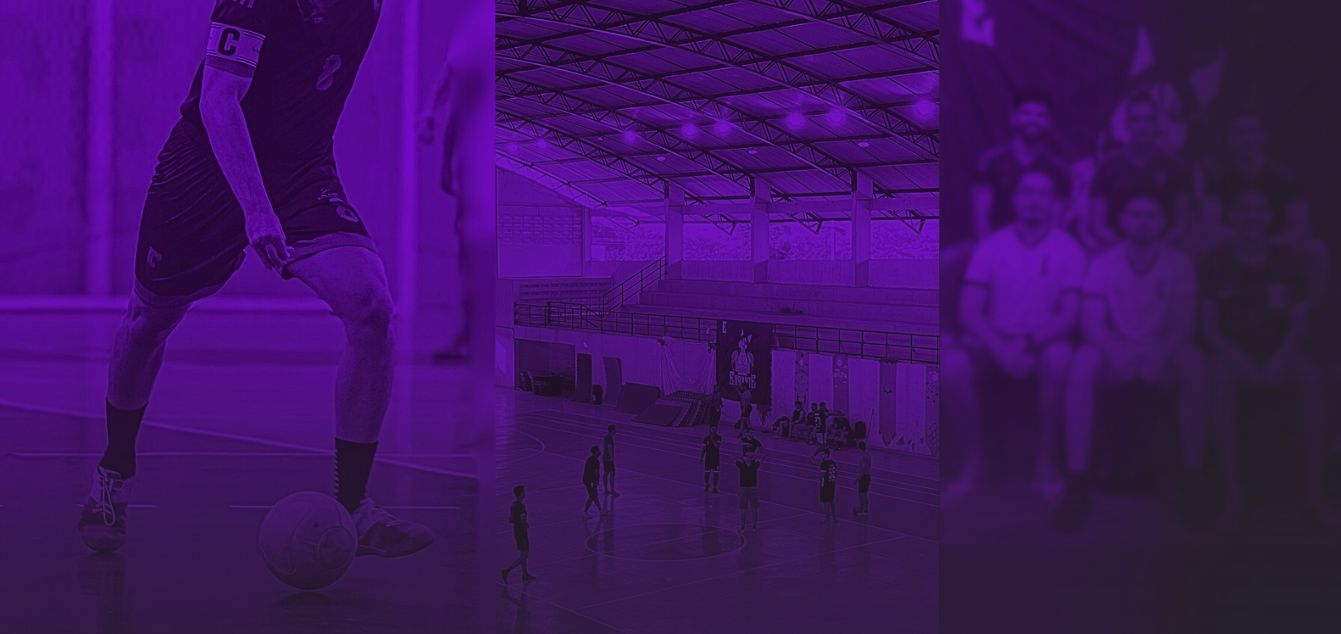
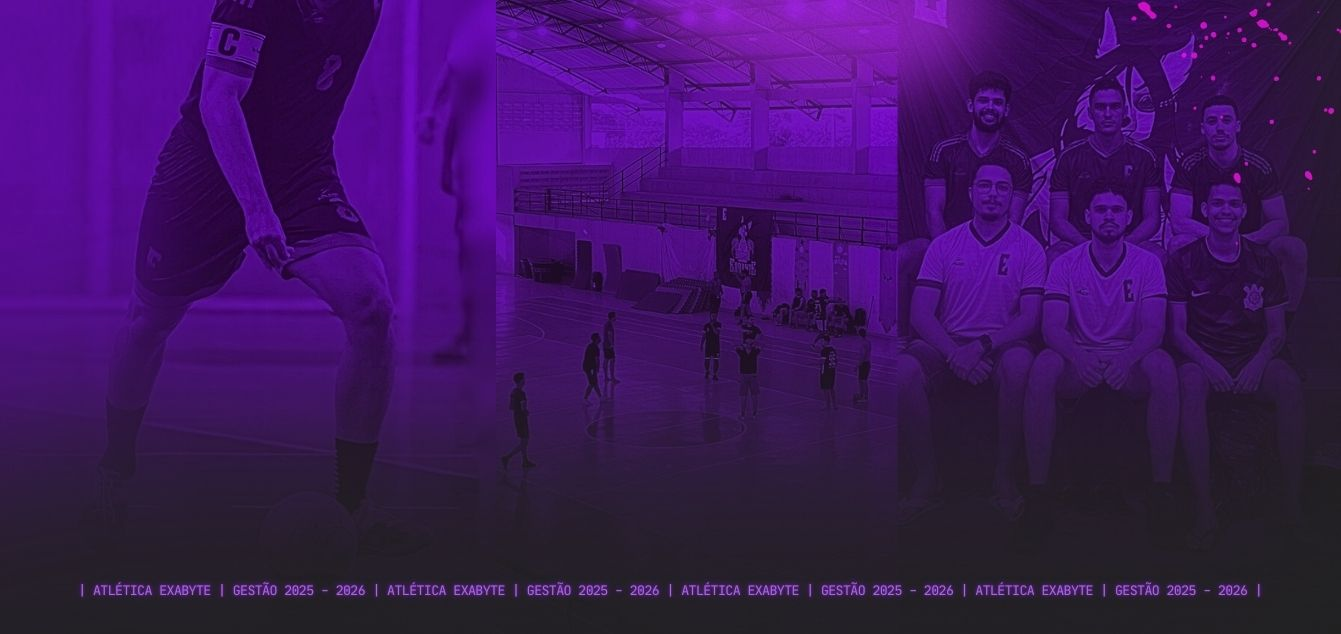
feat(hero): add new background image and update text colors for improved readability

diff --git a/index.html b/index.html
@@ -39,9 +39,9 @@
     </nav>
 
     <!-- Hero Section -->
-    <section id="inicio" class="hero">
+    <section id="inicio" class="hero" style="background-image: url('images/background/hero.jpg'); background-size: cover; background-position: center; background-repeat: no-repeat;">
         <div class="hero-content">
-            <h1 class="hero-title">ATLETICA EXABYTE</h1>
+            <h1 class="hero-title">ATLÉTICA EXABYTE</h1>
             <p class="hero-subtitle">Tecnologia, inovação e comunidade estudantil em uma só força!</p>
             <a href="#sobre" class="cta-button">Conheça a Atlética</a>
         </div>

diff --git a/css/style.css b/css/style.css
@@ -148,14 +148,14 @@ h1, h2, h3, h4, h5, h6 {
 .hero-title {
     font-size: 3.5rem;
     margin-bottom: 1rem;
-    color: #830be8;
+    color: #faf5f5;
     text-transform: uppercase;
 }
 
 .hero-subtitle {
     font-size: 1.5rem;
     margin-bottom: 1rem;
-    color: #914acd;
+    color: #b36cec;
 }
 
 .hero-description {
